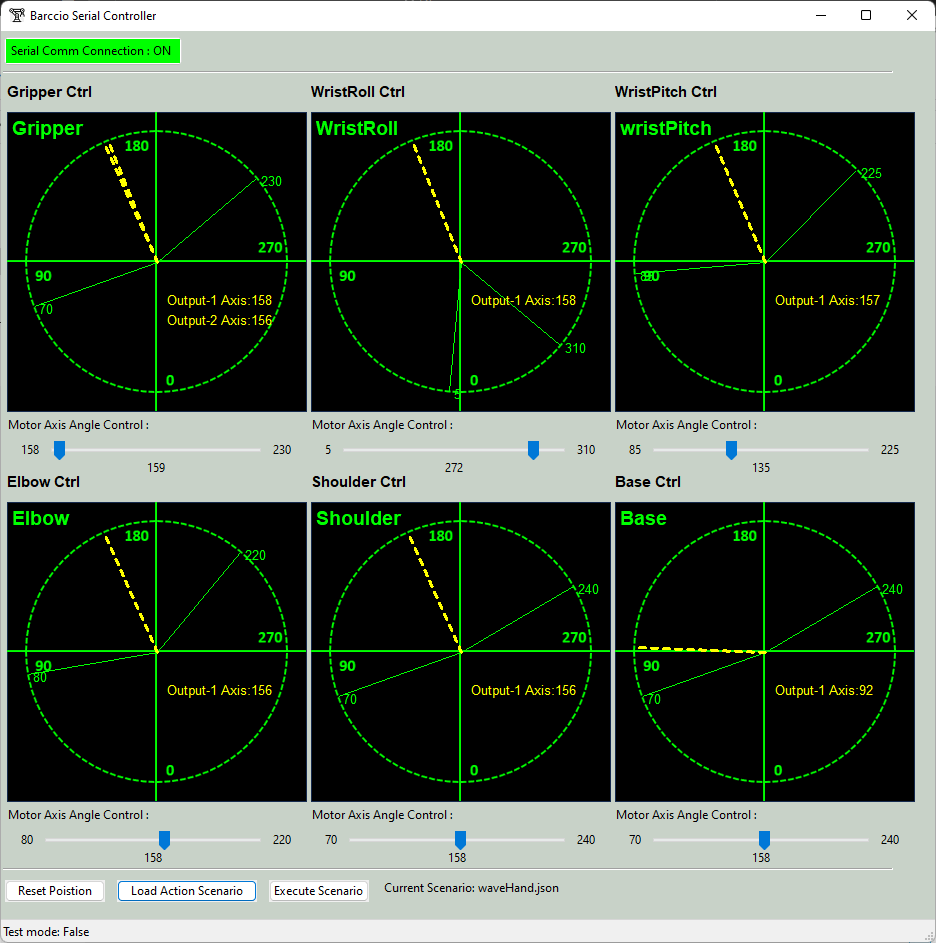
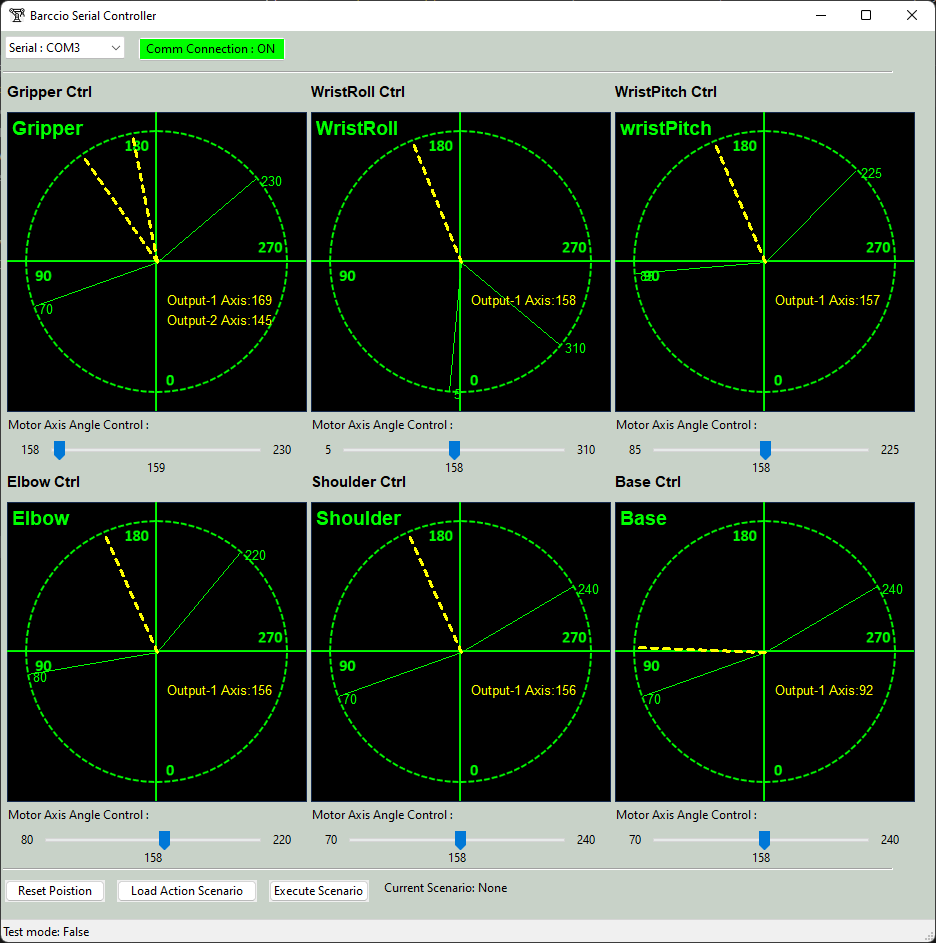
Added the communication selection code and update the design document.

diff --git a/src/Controllers/BraccioController.py b/src/Controllers/BraccioController.py
@@ -60,11 +60,18 @@ class UIFrame(wx.Frame):
         mSizer = wx.BoxSizer(wx.VERTICAL)
         
         mSizer.AddSpacer(5)
-                                
-        self.serialLedBt = wx.Button(self, label='Serial Comm Connection : OFF', size=(180, 30))
-        self.serialLedBt.SetBackgroundColour(wx.Colour('GRAY'))
-        mSizer.Add(self.serialLedBt, flag=flagsL, border=2)
 
+        hbox0 = wx.BoxSizer(wx.HORIZONTAL)
+        
+        self.commChoice = wx.Choice(self, size = (120, 30), choices = ['Serial : COM3', 'WIFI : UDP', 'WIFI : TCP'])
+        self.commChoice.SetSelection(0)
+        hbox0.Add(self.commChoice, flag=flagsL | wx.CENTER, border=2)
+        hbox0.AddSpacer(10)
+        self.serialLedBt = wx.Button(self, label='Comm Connection : OFF', size=(150, 26))
+        self.serialLedBt.SetBackgroundColour(wx.Colour('GRAY'))
+        hbox0.Add(self.serialLedBt, flag=flagsL, border=2)
+
+        mSizer.Add(hbox0, flag=flagsL, border=2)
 
         mSizer.AddSpacer(5)
         mSizer.Add(wx.StaticLine(self, wx.ID_ANY, size=(890, -1),
@@ -342,7 +349,7 @@ class UIFrame(wx.Frame):
         connFlg = self.commMgr.getConnection()
         if self.connected != connFlg:
             colourStr = 'GREEN' if connFlg else 'GRAY'
-            labelStr = 'Serial Comm Connection : ON ' if connFlg else 'Serial Comm Connection : OFF'
+            labelStr = 'Comm Connection : ON ' if connFlg else 'Comm Connection : OFF'
             self.serialLedBt.SetBackgroundColour(wx.Colour(colourStr))
             self.serialLedBt.SetLabel(labelStr)
             self.connected = connFlg

diff --git a/README.md b/README.md
@@ -19,7 +19,7 @@ Arduino Braccio ++ offers a multitude of expansive possibilities from the very o
 
 Our program contents 2 parts: 
 
-**Braccio ++ Arduino firmware** :  The firmware program running on the Braccio's [Arduino Nano RP2040 Connect](https://docs.arduino.cc/hardware/nano-rp2040-connect) to accept the control request from the controller then drive the motors to make the robot arm to finish the action. 
+**Braccio ++ Arduino firmware** :  The firmware program running on the Braccio's [Arduino Nano RP2040 Connect](https://docs.arduino.cc/hardware/nano-rp2040-connect) to accept the control request from the controller then drive the motors to make the robot arm to finish the action.
 
 **Braccio ++ Controller UI** : The controller with a GUI for user to remote control the robot arm through wire connection (serial comm) or wireless connection (Wifi TCP/UDP comm). It will provide the function to user to :
 
